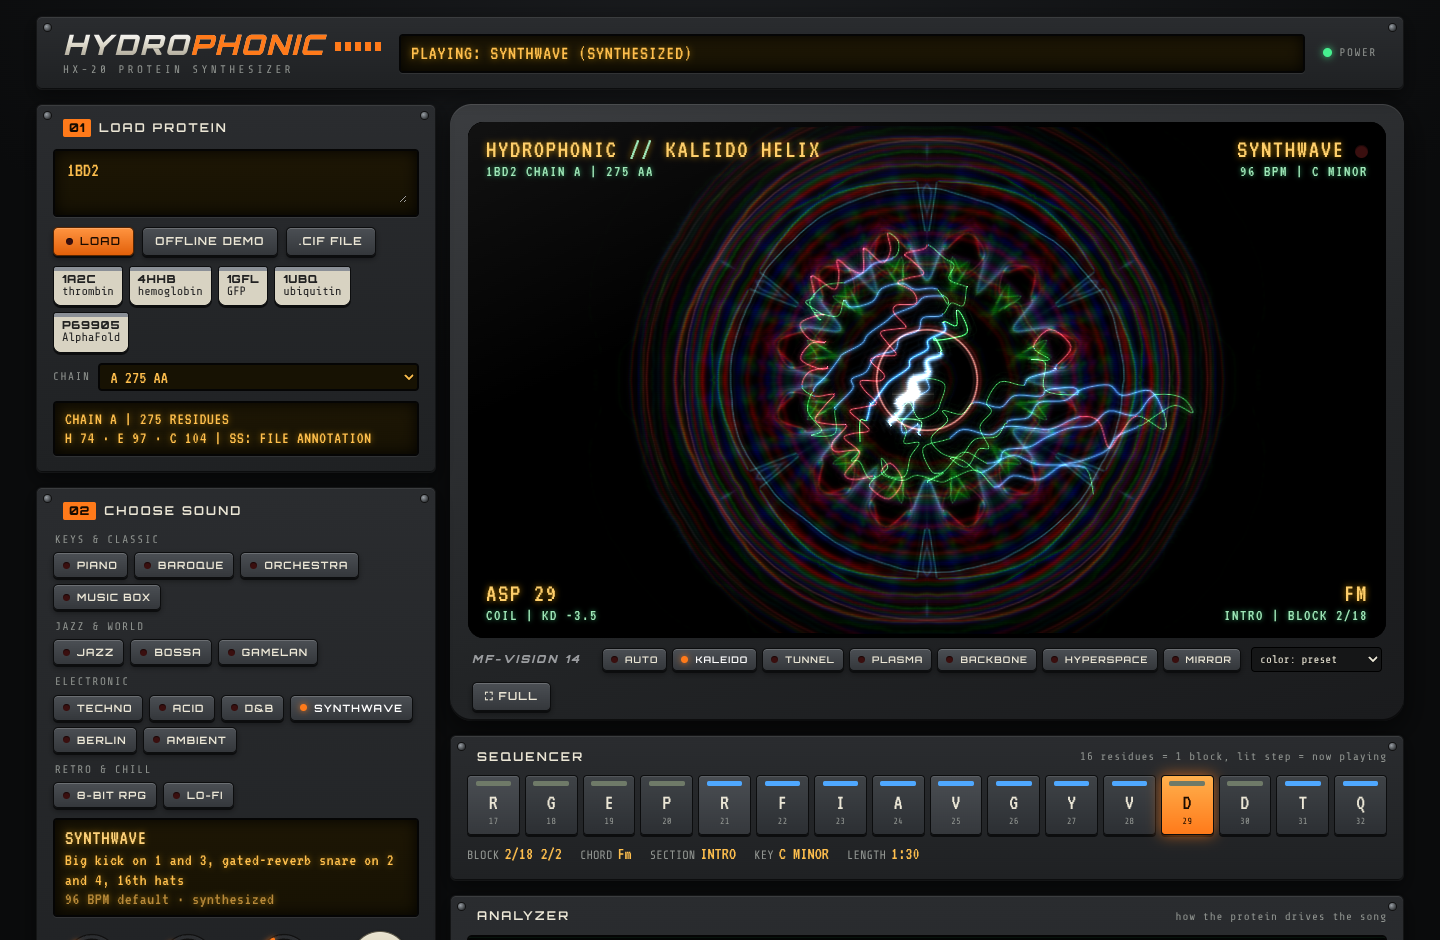
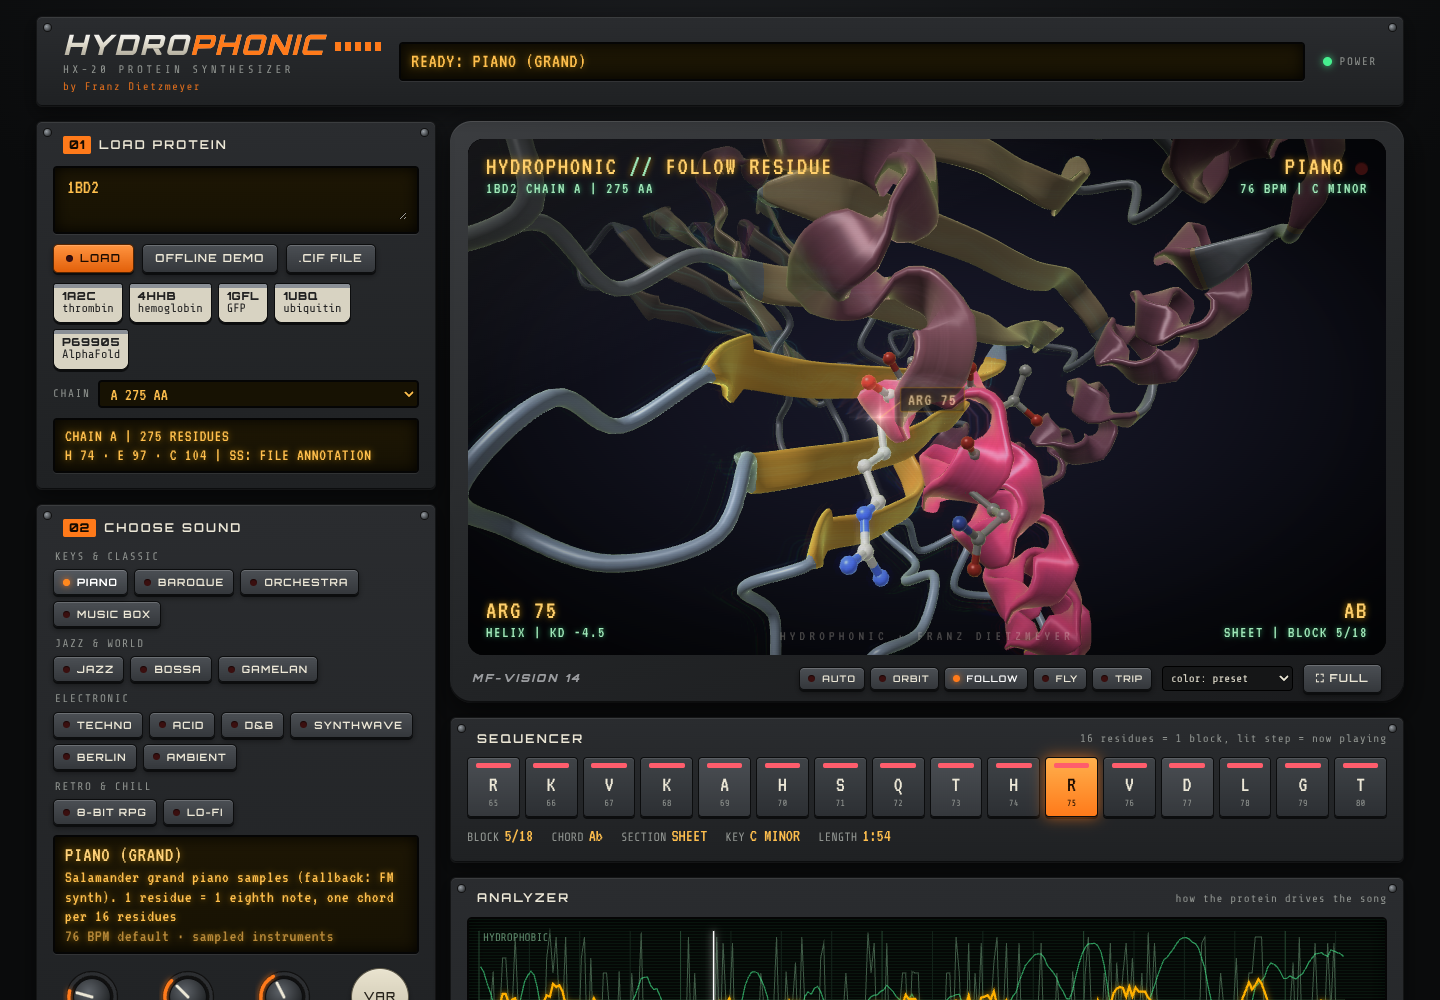
README: fly-through hero animation, follow and trip GIFs, new screenshots

diff --git a/web/index.html b/web/index.html
@@ -134,7 +134,7 @@ select.lcdsel{background:var(--lcdbg);color:var(--lcd);border:2px solid #050505;
 .vlabel::before{content:"";position:absolute;left:0;top:0;width:26px;height:1px;background:rgba(255,207,107,.7);transform:rotate(-38deg);transform-origin:0 0}
 .vlabel span{position:absolute;left:20px;top:-30px;font:clamp(12px,1.3vw,17px)/1 var(--lcdf);letter-spacing:.08em;color:#ffe2a8;background:rgba(10,12,16,.72);border:1px solid rgba(255,176,0,.45);padding:3px 7px;border-radius:2px;white-space:nowrap;text-shadow:0 0 6px rgba(255,176,0,.6)}
 .hud.sig{bottom:12px;left:50%;transform:translateX(-50%);font-size:clamp(10px,1.1vw,14px);color:rgba(236,231,214,.28);text-shadow:none;letter-spacing:.3em;white-space:nowrap}
-.hud.tl{top:14px;left:18px}.hud.tr{top:14px;right:18px;text-align:right}.hud.bl{bottom:14px;left:18px}.hud.br{bottom:14px;right:18px;text-align:right}
+.hud.tl{top:14px;left:18px;max-width:64%}.hud.tr{top:14px;right:18px;text-align:right;max-width:34%;white-space:nowrap}.hud.bl{bottom:14px;left:18px}.hud.br{bottom:14px;right:18px;text-align:right}
 .hud small{display:block;font-size:.62em;color:#9fe8b8;text-shadow:0 0 5px rgba(67,224,138,.7)}
 .hud .led{width:.5em;height:.5em;margin-left:.4em;vertical-align:middle}
 .insert{position:absolute;inset:0;display:flex;align-items:center;justify-content:center;flex-direction:column;gap:8px;z-index:3;pointer-events:none;
@@ -2279,7 +2279,7 @@ class ProteinViz {
     if (g.idx.length) this.stickVao = this._vao(this.prog.stick, g.verts, [['aPos', 3], ['aNrm', 3], ['aCol', 3], ['aGlow', 1]], g.idx);
   }
   setAudio(fft, wave){ this.fft = fft; this.wave = wave; this.avgInit = false; }
-  setPlaying(on){ this.playing = on; if (!on) { this.cur = -1; this.section = null; } }
+  setPlaying(on){ this.playing = on; if (!on) { this.cur = -1; this.camRes = null; this.section = null; } }
   setPreset(key){
     if (key === 'auto' || key === 'trip') { this.autoMode = key === 'auto' ? 'structure' : 'trip';
       const sec = this.section || 'intro'; this._target(VIZ_AUTO[this.autoMode][sec] || VIZ_AUTO[this.autoMode].intro); return; }
@@ -2298,7 +2298,12 @@ class ProteinViz {
   }
   // called from the transport (Tone.Draw), knows the score
   onStep(st, S){
-    if (st.i >= 0) { if (this.cur < 0 || Math.abs(st.i - this.curF) > 24) this.curF = st.i; this.cur = st.i; }
+    if (st.i >= 0) {
+      // camera progress is monotonic: styles that loop a block move the camera through it once, spread over all passes
+      this.camRes = Math.min(S.n - 1, st.b * BLOCK + (st.rep * BLOCK + st.s) / S.rep);
+      if (this.cur < 0 || Math.abs(this.camRes - this.curF) > 24) this.curF = this.camRes;
+      this.cur = st.i;
+    }
     const ch = S.chords[st.b]; if (ch) this.hueT = ((S.rootPc + ch[0]) % 12) / 12;
     const ph = S.phrases[st.ph], sec = ph.role !== 'main' ? ph.role : ph.type;
     if (this.autoMode && sec !== this.section) this._target(VIZ_AUTO[this.autoMode][sec]);
@@ -2418,7 +2423,7 @@ class ProteinViz {
   _posAt(arr, f){ const n = arr.length; f = clamp(f, 0, n - 1); const i = Math.floor(f), t = f - i; return V3.lerp(arr[i], arr[Math.min(n - 1, i + 1)], t); }
   _camera(dt, P){
     const c = this.cam, live = this.playing && this.cur >= 0 && this.ca, A = 1 / (this.rad || 30);
-    this.curF += (Math.max(0, this.cur) - this.curF) * (1 - Math.exp(-dt * 10));
+    this.curF += (Math.max(0, this.camRes ?? this.cur) - this.curF) * (1 - Math.exp(-dt * 10));
     let pos, tgt, fov, kp = 2.2, kt = 3.5;
     if (P.cam === 'orbit' || !live) {
       const tilt = 0.35 * Math.sin(this.time * 0.13), d = 2.7 - 0.5 * P.scene;
@@ -2771,7 +2776,7 @@ async function playInner(token){
   state.wave = new Tone.Waveform(1024); state.master.lim.connect(state.wave);
   state.fft = new Tone.Analyser('fft', 1024); state.master.lim.connect(state.fft);
   if (viz) { viz.setAudio(state.fft, state.wave); viz.setPlaying(true); }
-  $('hudStyle').textContent = STYLES[state.styleKey].name; $('hudBpm').textContent = `${state.song.bpm} BPM | ${state.song.keyName}`;
+  $('hudStyle').textContent = STYLES[state.styleKey].short || STYLES[state.styleKey].name; $('hudBpm').textContent = `${state.song.bpm} BPM | ${state.song.keyName}`;
   const T = Tone.Transport;
   state.rig = await createRig(state.song, T, state.master.inp, (st, time) => Tone.Draw.schedule(() => onStep(st), time), samples);
   sampleReport(state.rig);
@@ -2892,7 +2897,7 @@ const unlock = () => { if (Tone.context.state !== 'running') Tone.start().catch(
 document.addEventListener('visibilitychange', () => { if (!document.hidden && state.playing) unlock(); });
 window.addEventListener('error', e => setStatus('Error: ' + e.message, true));
 window.addEventListener('unhandledrejection', e => setStatus('Error: ' + (e.reason && e.reason.message || e.reason), true));
-window.__mf = {state, renderOffline, useProtein, loadQuery, setMode, setStyle, STYLES, makeSong, knobs, get viz(){ return viz; }};
+window.__mf = {state, renderOffline, useProtein, loadQuery, setMode, setStyle, STYLES, makeSong, knobs, onStep, get viz(){ return viz; }};
 
 </script>
 </body>

diff --git a/web/src/viz.js b/web/src/viz.js
@@ -487,7 +487,7 @@ class ProteinViz {
     if (g.idx.length) this.stickVao = this._vao(this.prog.stick, g.verts, [['aPos', 3], ['aNrm', 3], ['aCol', 3], ['aGlow', 1]], g.idx);
   }
   setAudio(fft, wave){ this.fft = fft; this.wave = wave; this.avgInit = false; }
-  setPlaying(on){ this.playing = on; if (!on) { this.cur = -1; this.section = null; } }
+  setPlaying(on){ this.playing = on; if (!on) { this.cur = -1; this.camRes = null; this.section = null; } }
   setPreset(key){
     if (key === 'auto' || key === 'trip') { this.autoMode = key === 'auto' ? 'structure' : 'trip';
       const sec = this.section || 'intro'; this._target(VIZ_AUTO[this.autoMode][sec] || VIZ_AUTO[this.autoMode].intro); return; }
@@ -506,7 +506,12 @@ class ProteinViz {
   }
   // called from the transport (Tone.Draw), knows the score
   onStep(st, S){
-    if (st.i >= 0) { if (this.cur < 0 || Math.abs(st.i - this.curF) > 24) this.curF = st.i; this.cur = st.i; }
+    if (st.i >= 0) {
+      // camera progress is monotonic: styles that loop a block move the camera through it once, spread over all passes
+      this.camRes = Math.min(S.n - 1, st.b * BLOCK + (st.rep * BLOCK + st.s) / S.rep);
+      if (this.cur < 0 || Math.abs(this.camRes - this.curF) > 24) this.curF = this.camRes;
+      this.cur = st.i;
+    }
     const ch = S.chords[st.b]; if (ch) this.hueT = ((S.rootPc + ch[0]) % 12) / 12;
     const ph = S.phrases[st.ph], sec = ph.role !== 'main' ? ph.role : ph.type;
     if (this.autoMode && sec !== this.section) this._target(VIZ_AUTO[this.autoMode][sec]);
@@ -626,7 +631,7 @@ class ProteinViz {
   _posAt(arr, f){ const n = arr.length; f = clamp(f, 0, n - 1); const i = Math.floor(f), t = f - i; return V3.lerp(arr[i], arr[Math.min(n - 1, i + 1)], t); }
   _camera(dt, P){
     const c = this.cam, live = this.playing && this.cur >= 0 && this.ca, A = 1 / (this.rad || 30);
-    this.curF += (Math.max(0, this.cur) - this.curF) * (1 - Math.exp(-dt * 10));
+    this.curF += (Math.max(0, this.camRes ?? this.cur) - this.curF) * (1 - Math.exp(-dt * 10));
     let pos, tgt, fov, kp = 2.2, kt = 3.5;
     if (P.cam === 'orbit' || !live) {
       const tilt = 0.35 * Math.sin(this.time * 0.13), d = 2.7 - 0.5 * P.scene;

diff --git a/web/src/app.js b/web/src/app.js
@@ -247,7 +247,7 @@ async function playInner(token){
   state.wave = new Tone.Waveform(1024); state.master.lim.connect(state.wave);
   state.fft = new Tone.Analyser('fft', 1024); state.master.lim.connect(state.fft);
   if (viz) { viz.setAudio(state.fft, state.wave); viz.setPlaying(true); }
-  $('hudStyle').textContent = STYLES[state.styleKey].name; $('hudBpm').textContent = `${state.song.bpm} BPM | ${state.song.keyName}`;
+  $('hudStyle').textContent = STYLES[state.styleKey].short || STYLES[state.styleKey].name; $('hudBpm').textContent = `${state.song.bpm} BPM | ${state.song.keyName}`;
   const T = Tone.Transport;
   state.rig = await createRig(state.song, T, state.master.inp, (st, time) => Tone.Draw.schedule(() => onStep(st), time), samples);
   sampleReport(state.rig);
@@ -368,4 +368,4 @@ const unlock = () => { if (Tone.context.state !== 'running') Tone.start().catch(
 document.addEventListener('visibilitychange', () => { if (!document.hidden && state.playing) unlock(); });
 window.addEventListener('error', e => setStatus('Error: ' + e.message, true));
 window.addEventListener('unhandledrejection', e => setStatus('Error: ' + (e.reason && e.reason.message || e.reason), true));
-window.__mf = {state, renderOffline, useProtein, loadQuery, setMode, setStyle, STYLES, makeSong, knobs, get viz(){ return viz; }};
+window.__mf = {state, renderOffline, useProtein, loadQuery, setMode, setStyle, STYLES, makeSong, knobs, onStep, get viz(){ return viz; }};

diff --git a/web/src/ui.html b/web/src/ui.html
@@ -134,7 +134,7 @@ select.lcdsel{background:var(--lcdbg);color:var(--lcd);border:2px solid #050505;
 .vlabel::before{content:"";position:absolute;left:0;top:0;width:26px;height:1px;background:rgba(255,207,107,.7);transform:rotate(-38deg);transform-origin:0 0}
 .vlabel span{position:absolute;left:20px;top:-30px;font:clamp(12px,1.3vw,17px)/1 var(--lcdf);letter-spacing:.08em;color:#ffe2a8;background:rgba(10,12,16,.72);border:1px solid rgba(255,176,0,.45);padding:3px 7px;border-radius:2px;white-space:nowrap;text-shadow:0 0 6px rgba(255,176,0,.6)}
 .hud.sig{bottom:12px;left:50%;transform:translateX(-50%);font-size:clamp(10px,1.1vw,14px);color:rgba(236,231,214,.28);text-shadow:none;letter-spacing:.3em;white-space:nowrap}
-.hud.tl{top:14px;left:18px}.hud.tr{top:14px;right:18px;text-align:right}.hud.bl{bottom:14px;left:18px}.hud.br{bottom:14px;right:18px;text-align:right}
+.hud.tl{top:14px;left:18px;max-width:64%}.hud.tr{top:14px;right:18px;text-align:right;max-width:34%;white-space:nowrap}.hud.bl{bottom:14px;left:18px}.hud.br{bottom:14px;right:18px;text-align:right}
 .hud small{display:block;font-size:.62em;color:#9fe8b8;text-shadow:0 0 5px rgba(67,224,138,.7)}
 .hud .led{width:.5em;height:.5em;margin-left:.4em;vertical-align:middle}
 .insert{position:absolute;inset:0;display:flex;align-items:center;justify-content:center;flex-direction:column;gap:8px;z-index:3;pointer-events:none;

diff --git a/README.md b/README.md
@@ -14,7 +14,7 @@
 
 Type a PDB ID, a UniProt accession or a raw sequence.
 Hydrophonic reads the fold, composes a song in one of 15 styles
-and throws the backbone into a 90s-style audio-reactive visualizer.
+and flies you through the structure while it plays, always looking at the amino acid you hear.
 
 ![Tone.js](https://img.shields.io/badge/audio-Tone.js-ff7a1a?style=flat-square)
 ![WebGL2](https://img.shields.io/badge/visuals-WebGL2-46f08f?style=flat-square)
@@ -22,7 +22,9 @@ and throws the backbone into a 90s-style audio-reactive visualizer.
 ![License](https://img.shields.io/badge/license-AGPL--3.0-ece7d6?style=flat-square)
 ![Data](https://img.shields.io/badge/data-RCSB%20PDB%20%7C%20AlphaFold%20DB-4fa8ff?style=flat-square)
 
-<img src="docs/demo.gif" width="720" alt="Visualizer: the backbone of PDB 1BD2 inside a feedback tunnel, a kaleidoscope and an oscilloscope">
+<img src="docs/fly.gif" width="760" alt="Fly-through mode: the camera travels along the backbone of PDB 1BD2 as a jazz trio plays it, the sounding residue shown as sticks with a label">
+
+<sub>FLY mode: PDB 1BD2, chain A, played as a jazz trio. The residue you hear is drawn as sticks.</sub>
 
 </div>
 
@@ -41,12 +43,12 @@ The result is music you would actually leave on, and every song is still a finge
 
 ```mermaid
 flowchart LR
-    A[PDB ID / UniProt / FASTA] --> B[Parse mmCIF<br/>sequence, helix/sheet/coil,<br/>CA trace, B-factor]
+    A[PDB ID / UniProt / FASTA] --> B[Parse mmCIF<br/>sequence, helix/sheet/coil,<br/>atoms, B-factor]
     B --> C[Features<br/>Kyte-Doolittle hydropathy,<br/>charge, smoothing]
     C --> D[Composer<br/>sections, chords,<br/>motifs, phrase forms]
     D --> E[Style engine<br/>15 styles, Tone.js,<br/>sampled instruments]
     E --> F((Speakers))
-    E --> G[Visualizer<br/>WebGL2 feedback,<br/>backbone ribbon]
+    E --> G[Visualizer<br/>lit cartoon, sticks,<br/>orbit / follow / fly, trip]
     B --> G
 ```
 
@@ -55,7 +57,7 @@ flowchart LR
 | Song | once | net charge, mean hydropathy, sequence hash | major or minor, key, random seed |
 | Section | 64 residues | majority secondary structure, with hysteresis | arrangement, chord pool, instruments, visual preset |
 | Block | 16 residues | smoothed hydropathy, charge density | chord, melody contour, filters, rhythm density, color |
-| Step | 1 residue | residue identity, with probability = **BIO** knob | melodic interval, accents, ghost notes, flare position |
+| Step | 1 residue | residue identity, with probability = **BIO** knob | melodic interval, accents, ghost notes, sticks and camera target |
 
 Two knobs make the trade-off explicit:
 
@@ -100,9 +102,21 @@ The main shape is the glowing backbone. Six presets: Kaleido Helix, Tunnel Fold,
 Color the protein by secondary structure, by position along the chain (N to C) or by hydropathy.
 Kicks and snares come straight from the score, so pulses hit exactly on the beat.
 
+<table>
+<tr>
+<td align="center"><img src="docs/follow.gif" width="420" alt="Follow mode: camera keeps the played residue in frame, orchestra style"><br><sub><b>FOLLOW</b>, orchestra</sub></td>
+<td align="center"><img src="docs/trip.gif" width="420" alt="Trip mode Tunnel Fold: glowing backbone in a feedback tunnel, deep techno"><br><sub><b>TRIP</b> / Tunnel Fold, deep techno</sub></td>
+</tr>
+</table>
+
 <img src="docs/structure_views.png" width="900" alt="Cartoon orbit, follow residue, fly-through and a trip view of PDB 1BD2">
 
-<img src="docs/screenshot.png" width="900" alt="Hydrophonic interface: load panel, style pads, knobs, CRT monitor, 16-step sequencer and analyzer">
+## The HX-20
+
+Everything sits on one 90s-style rack unit: load a protein (01), choose a sound (02), play (03).
+The 16-step LED sequencer shows the residues of the current block, the analyzer shows how hydropathy, flexibility and structure drive the song.
+
+<img src="docs/screenshot.png" width="900" alt="Hydrophonic interface: load panel, style pads, knobs, CRT monitor in follow mode, 16-step sequencer and analyzer">
 
 ## Quick start
 
